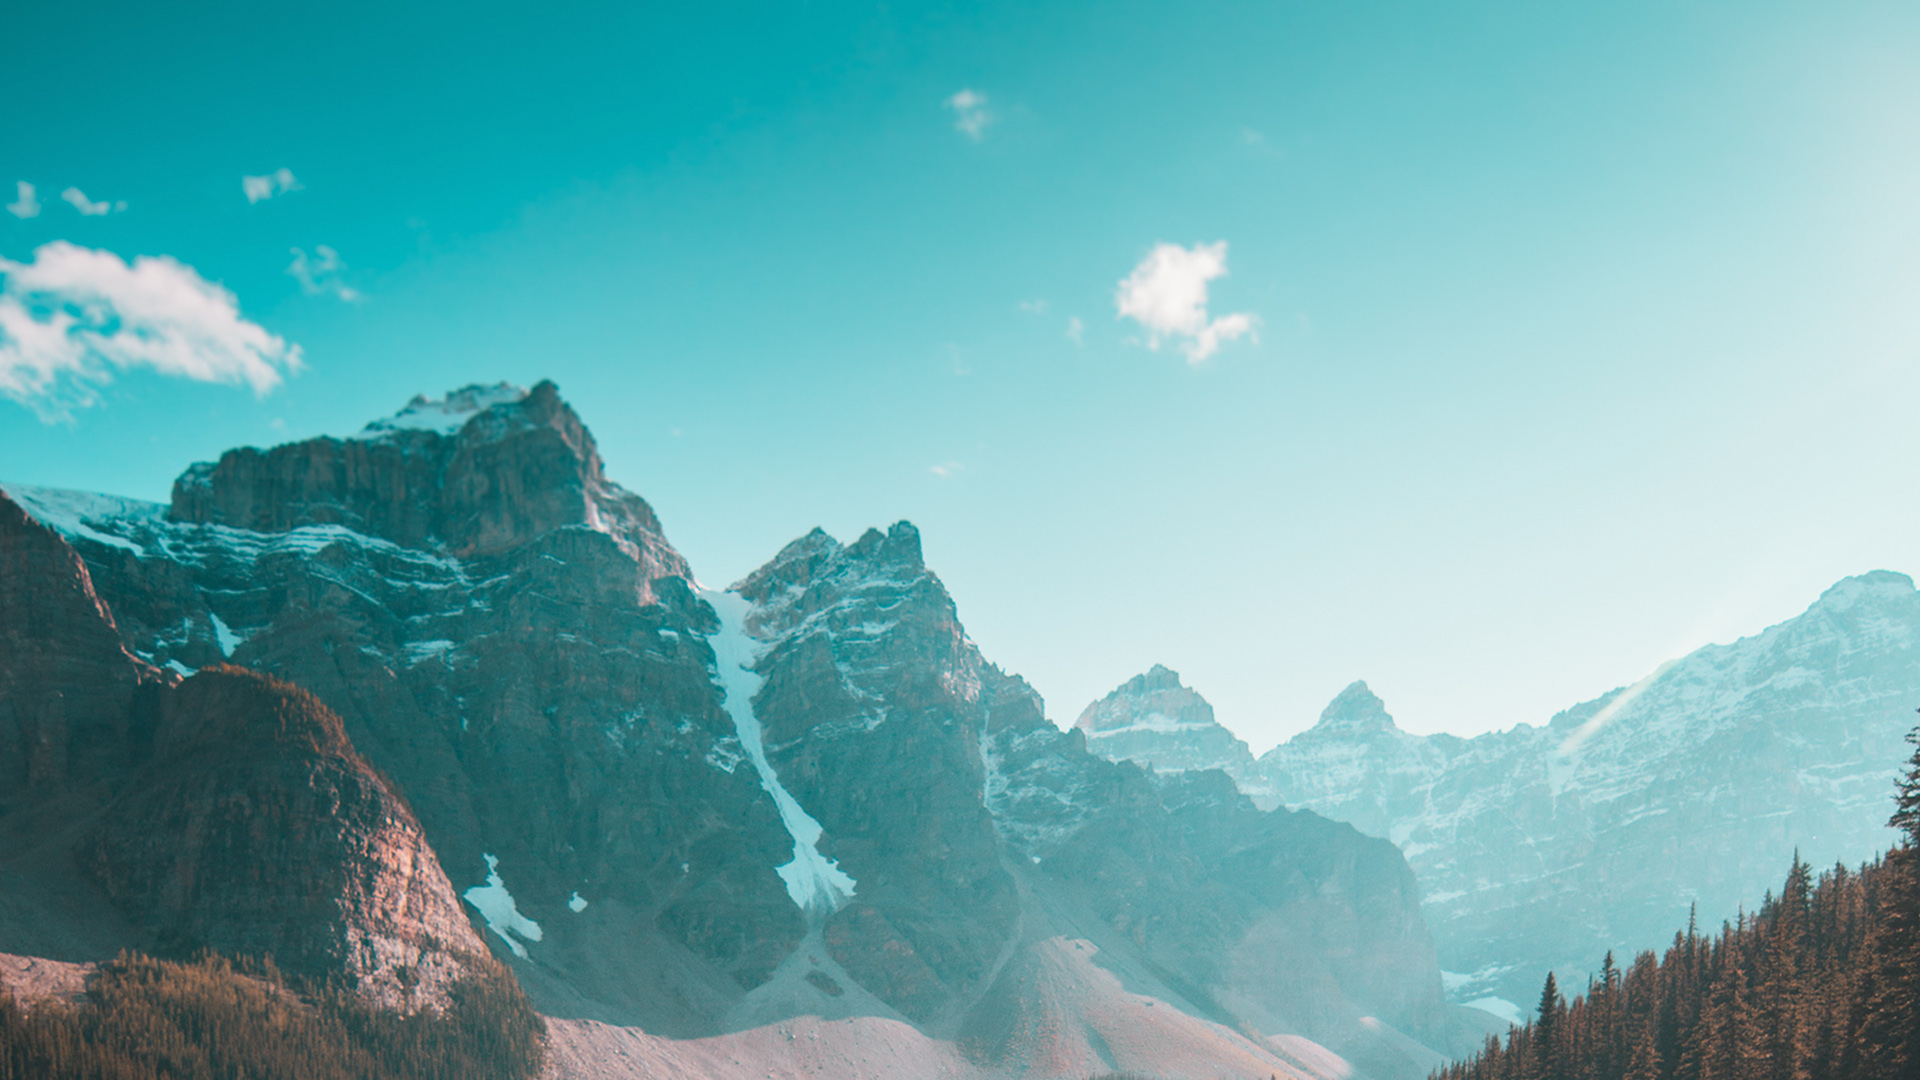
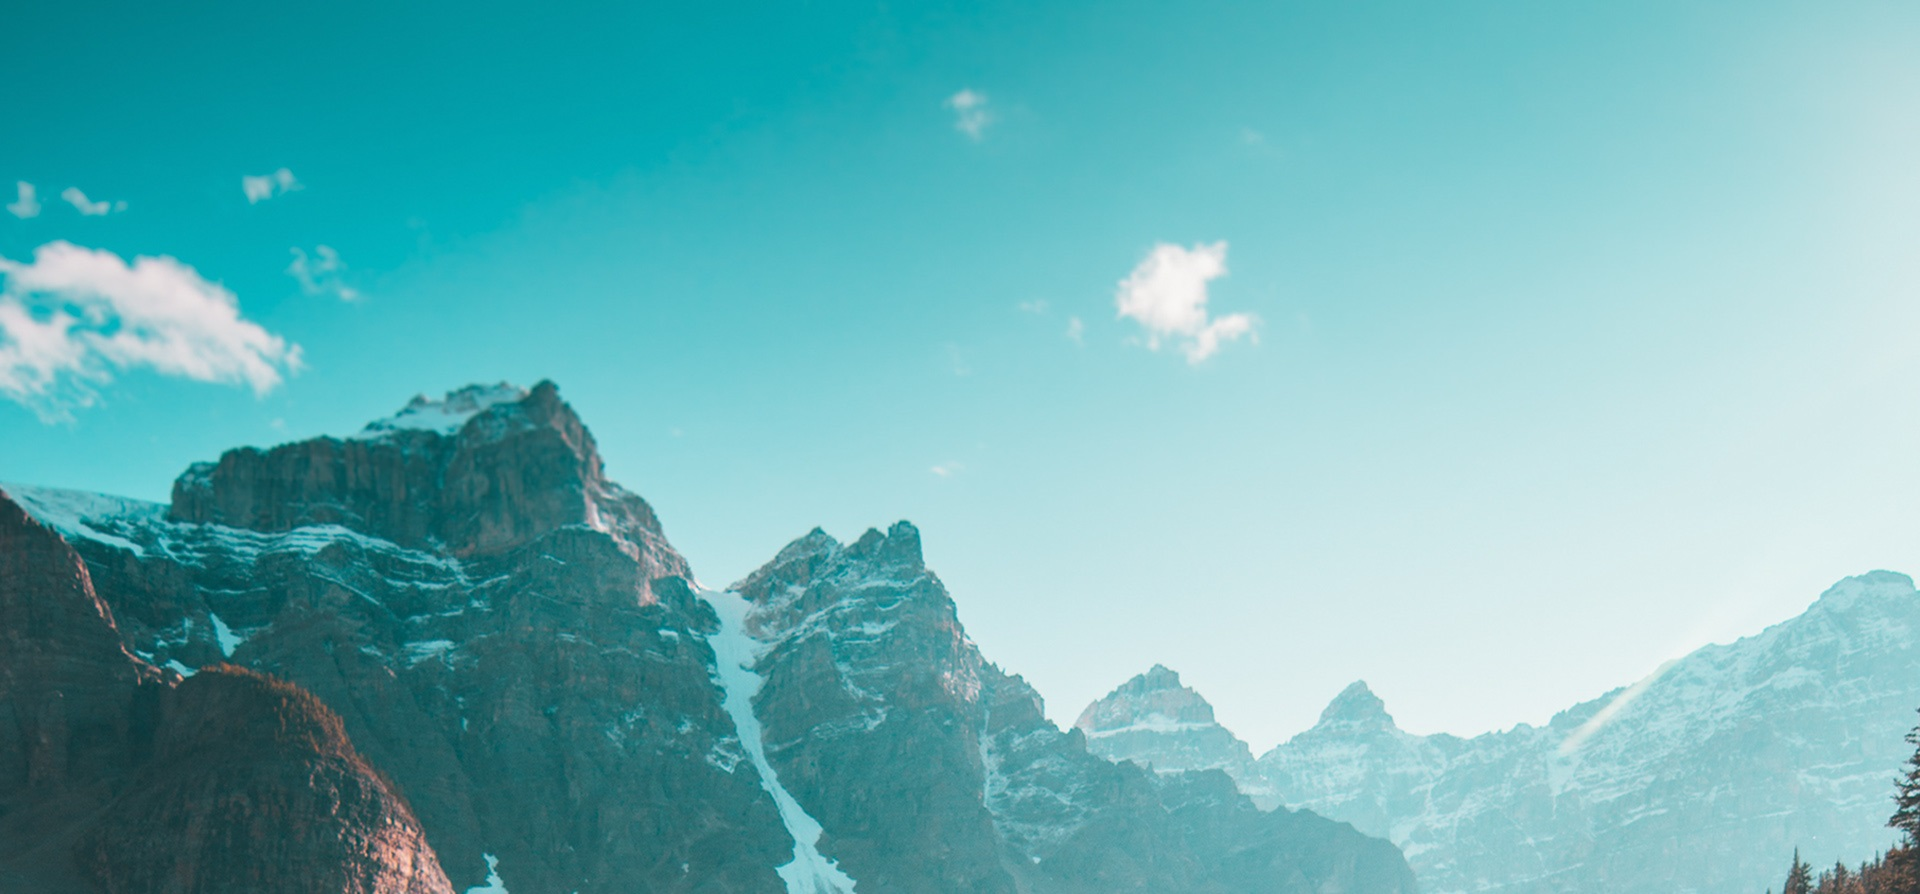
--- Auto-Git Commit ---

diff --git a/templates/seconnecter.html b/templates/seconnecter.html
@@ -99,9 +99,9 @@
         cursor: default;
     }
     .seconnecter {
-        height: 100%;
-        width: 100%;
-        background-image: linear-gradient(rgba(0, 0, 0, 0.4), rgba(0, 0, 0, 0.4), url({{url_for('static', filename='banner.jpg')}}"));
-
+    background: url("{{url_for('static', filename='banner.jpg')}}");
+    background-size: cover;
+    height: 80vh;
+    padding: 25px;
     }
 </style>
